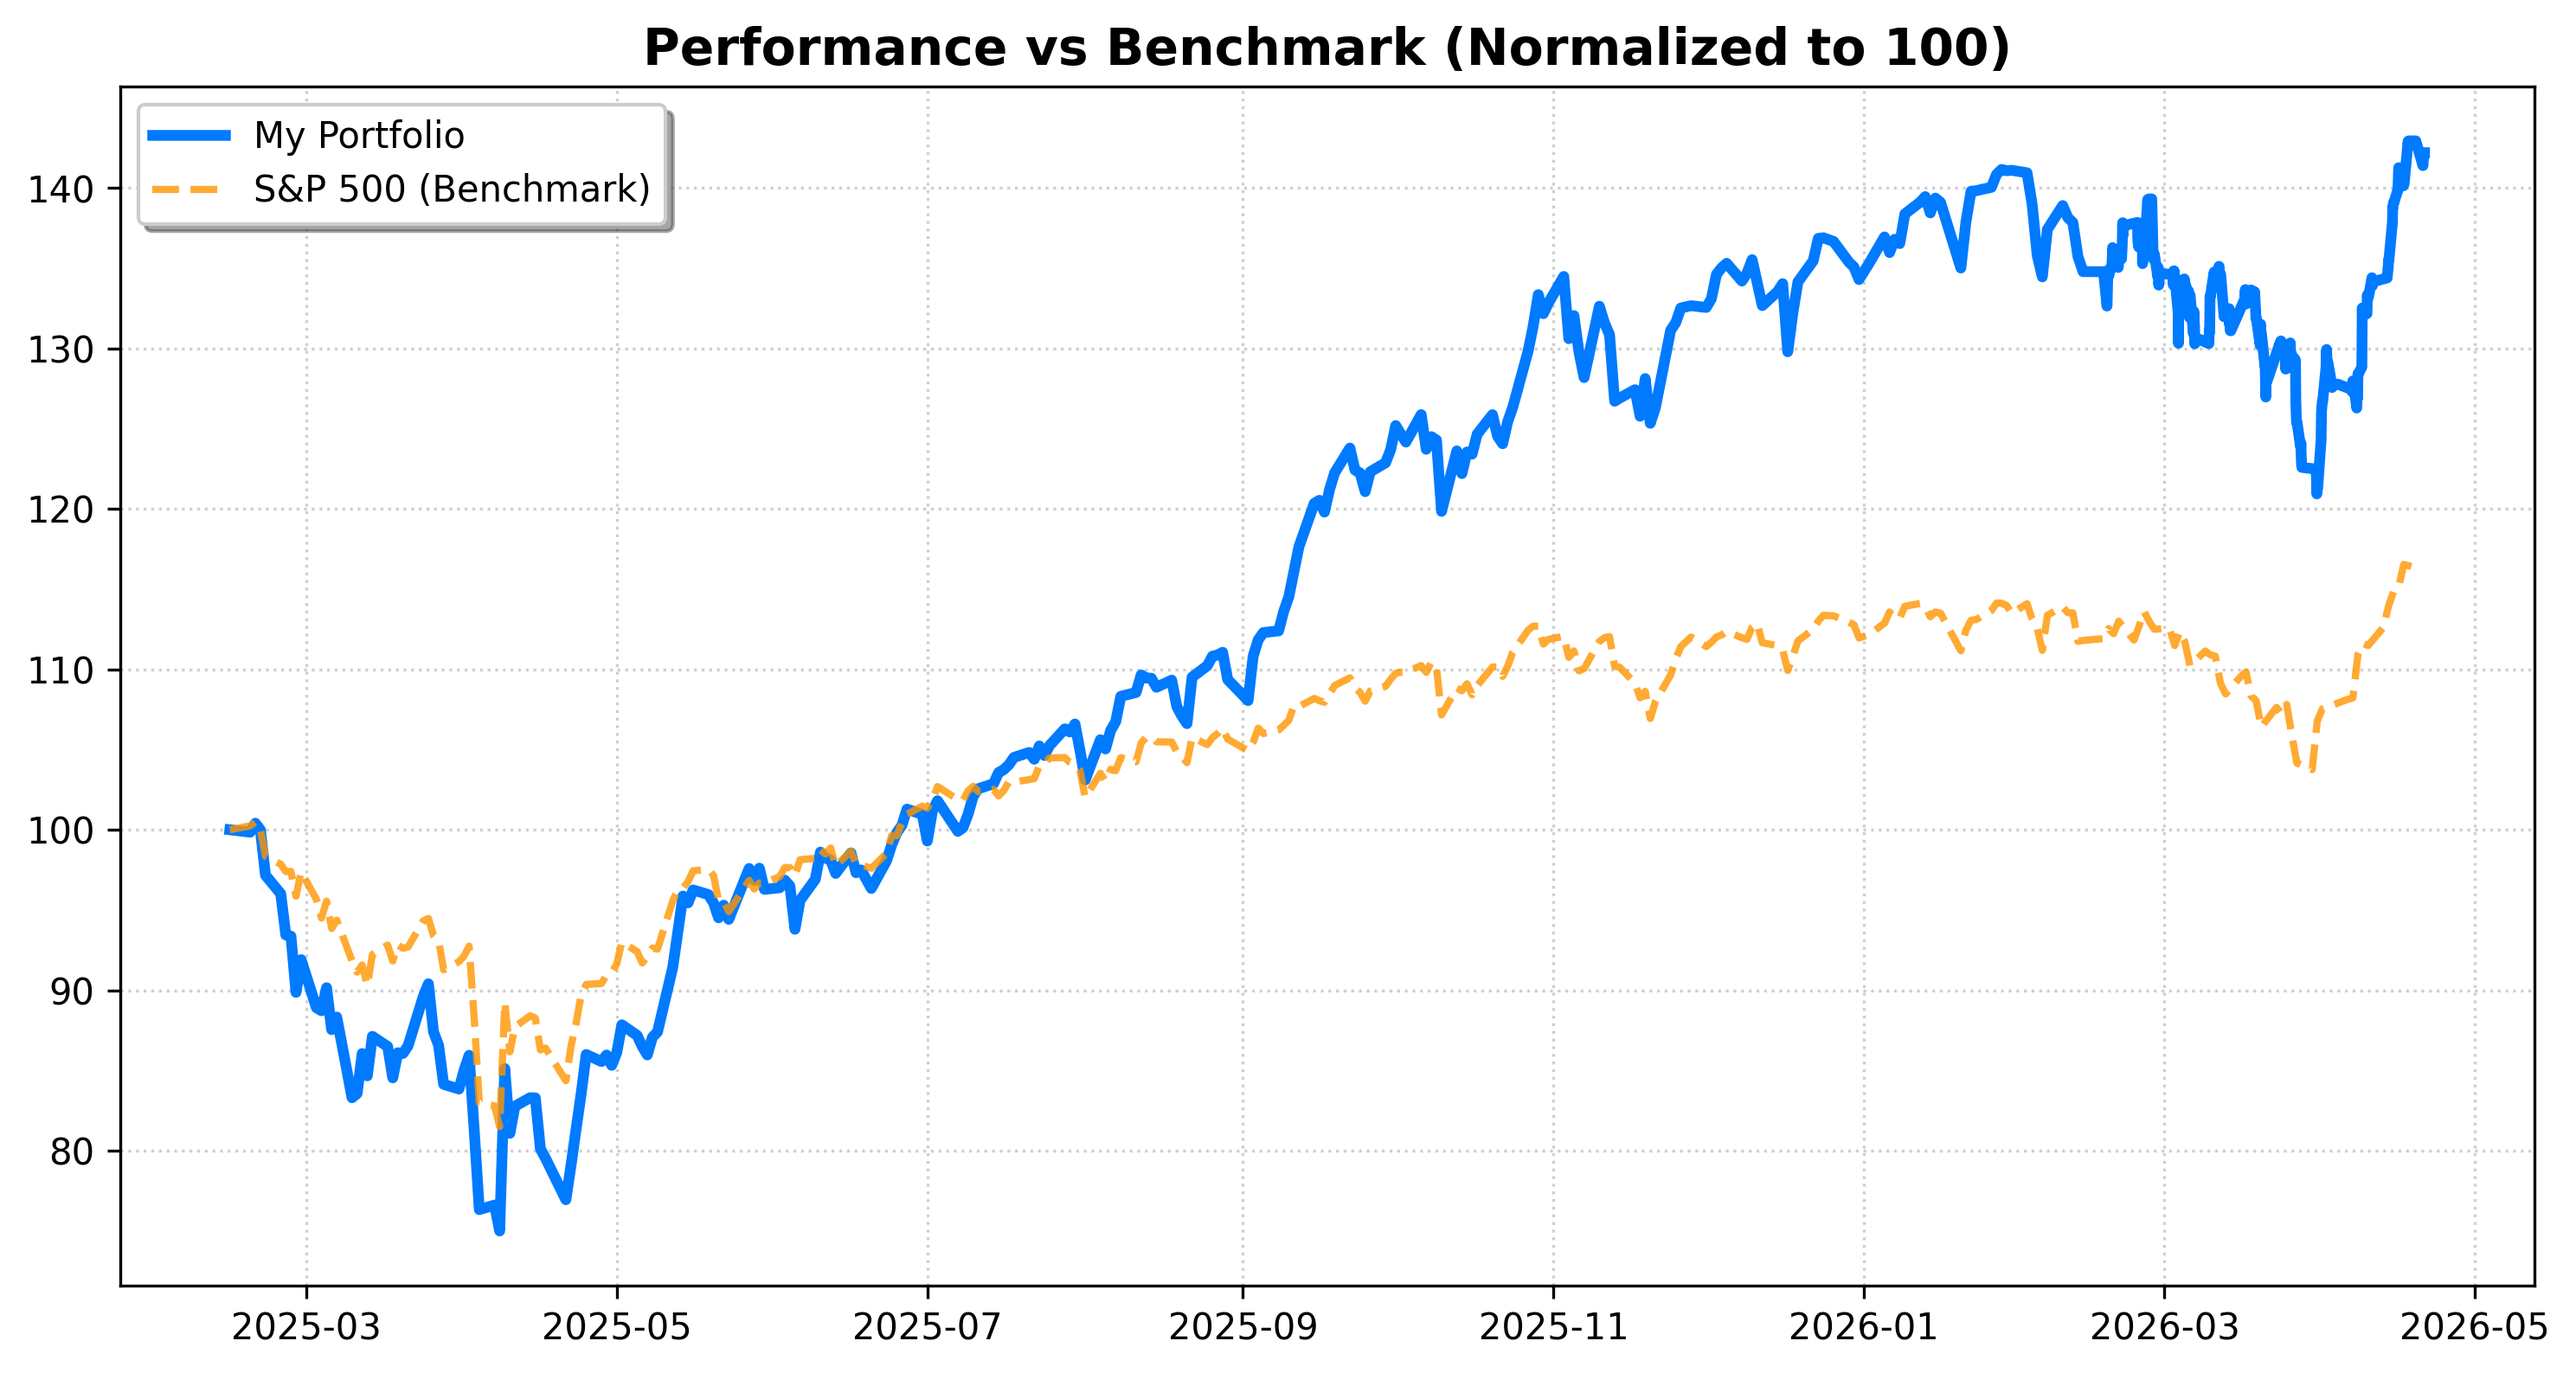
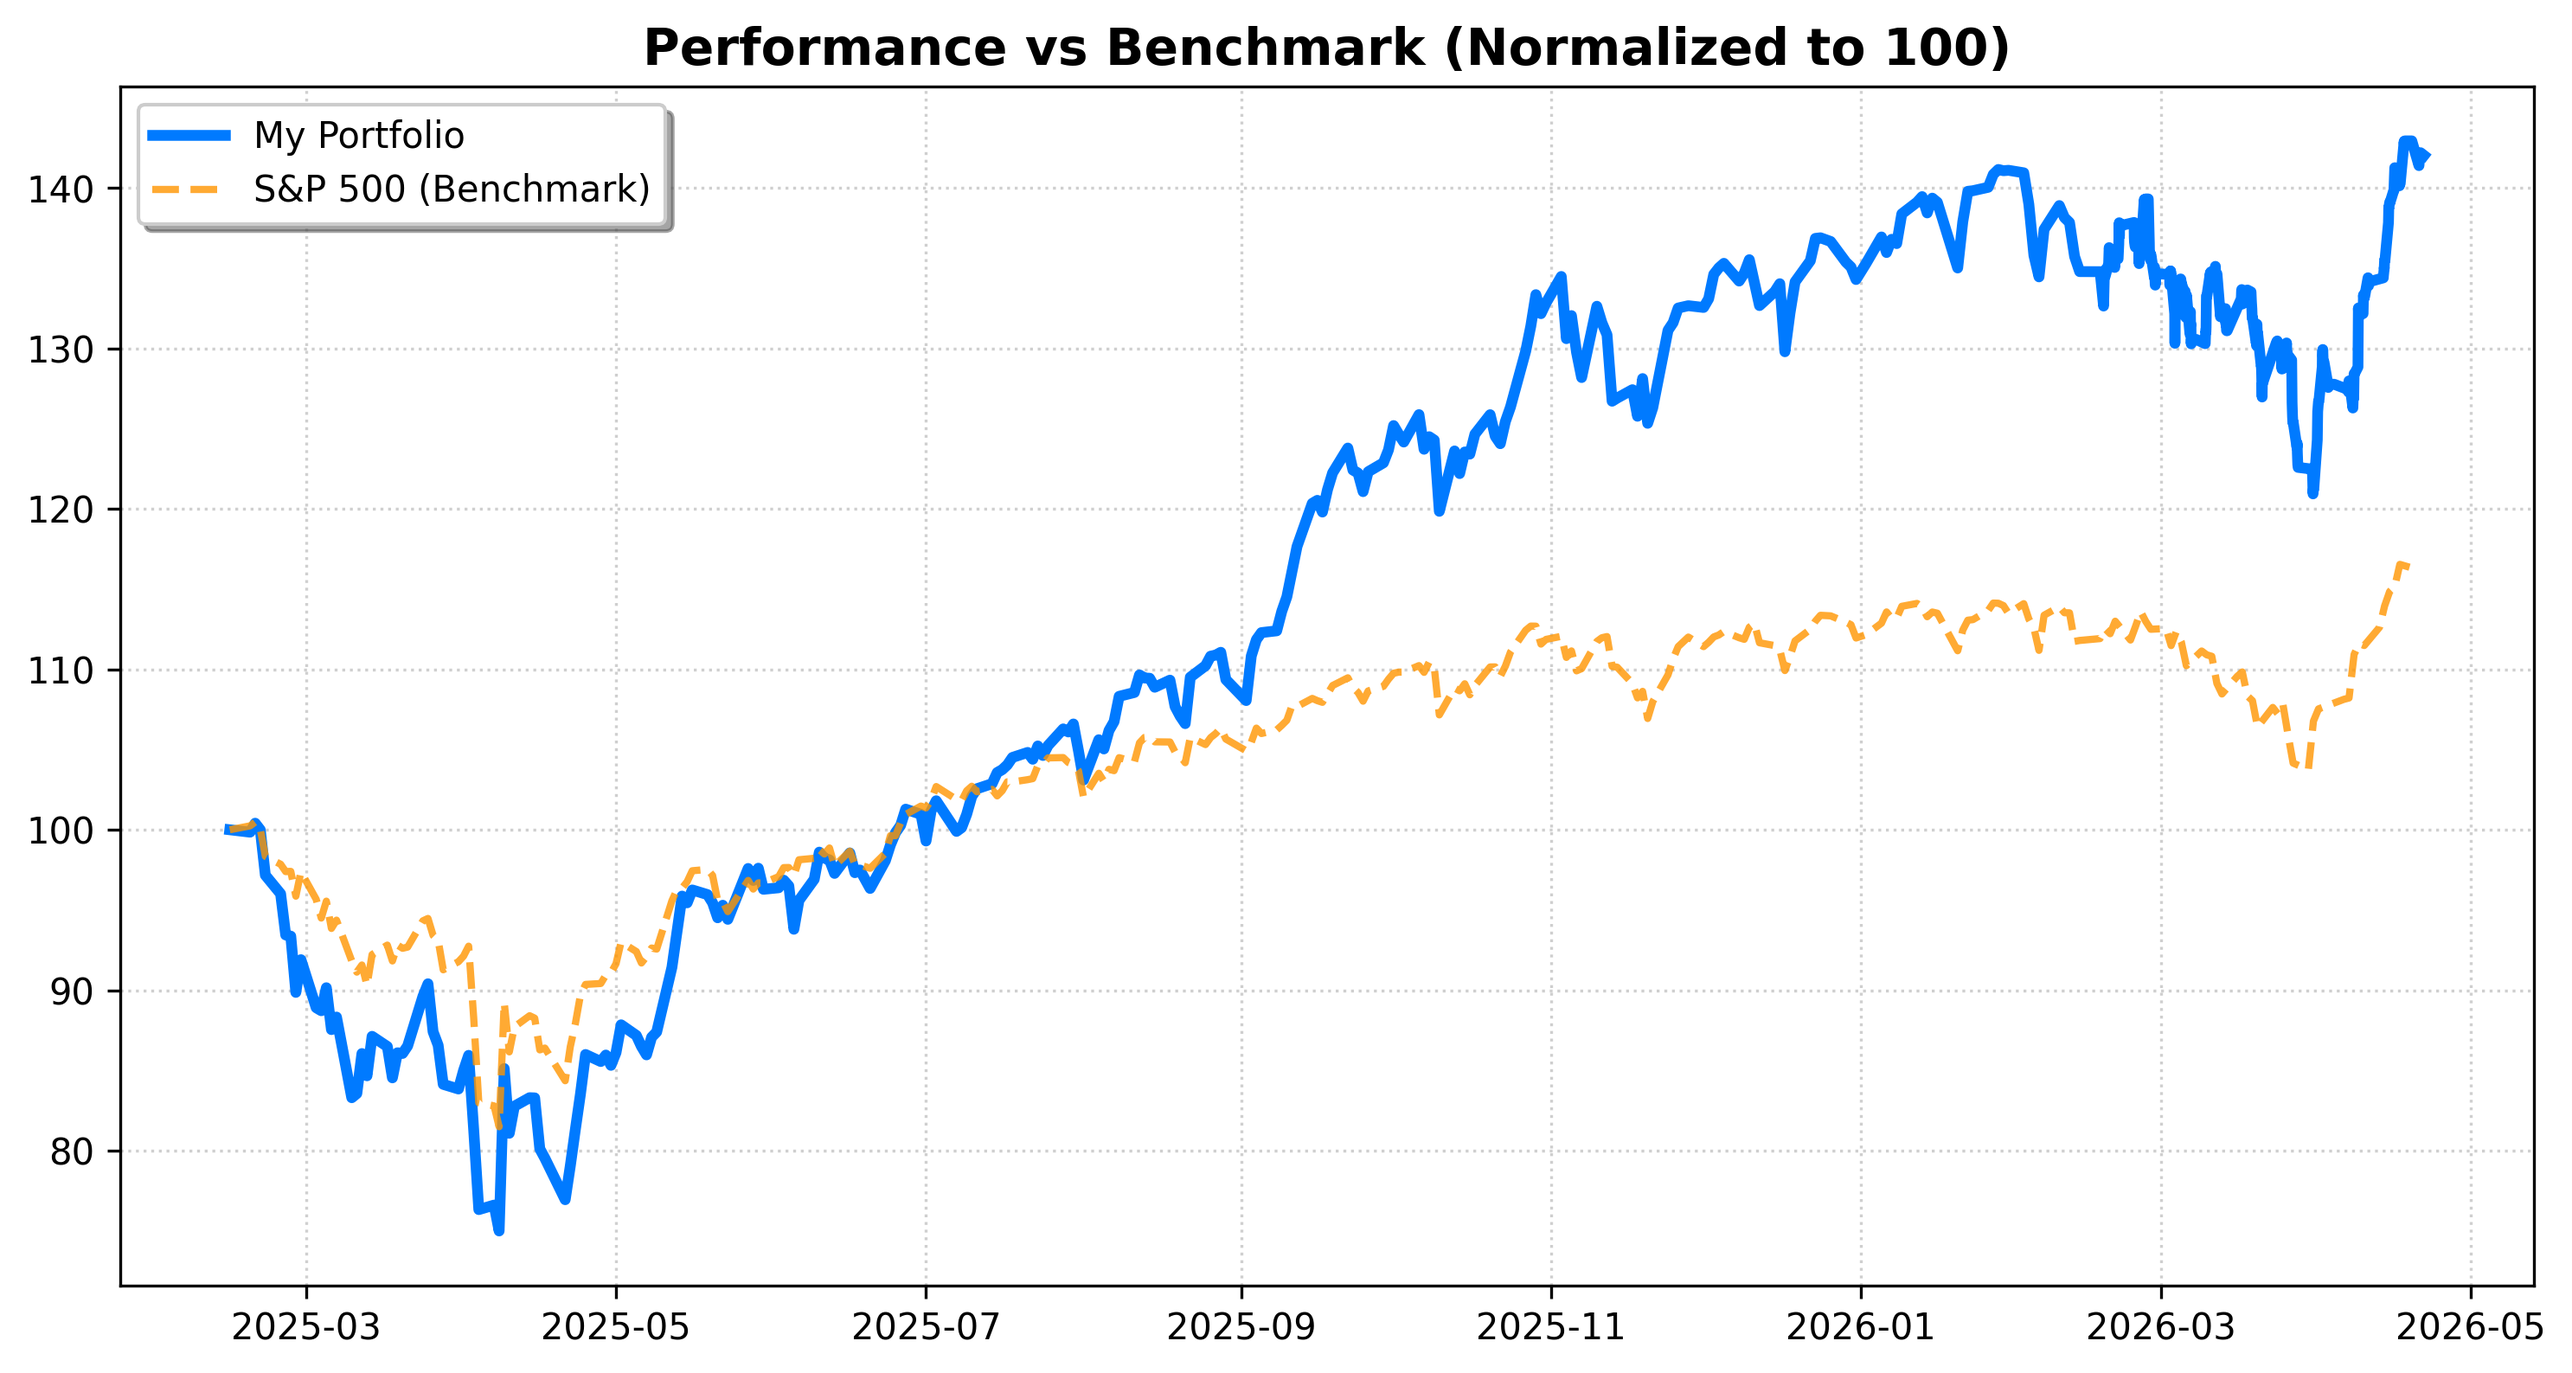
System Run: Analytics & Archive Update [skip ci]

diff --git a/README.md b/README.md
@@ -1,23 +1,23 @@
 # 📊 Portfolio Dashboard | מעקב תיק השקעות
-**Last Update:** 21/04/2026 01:52 | **USD/ILS:** ₪2.986
+**Last Update:** 21/04/2026 18:19 | **USD/ILS:** ₪3.002
 
 ## 💰 Portfolio Summary | סיכום התיק
 | Metric | Value | נתון |
 | :--- | :--- | :--- |
-| **Current Value** | `₪171,408` | **שווי נוכחי** |
-| **Total Invested** | `₪128,013` | **סך השקעה** |
-| **Total Profit/Loss** | `+33.90%` (₪43,394) | **רווח/הפסד כולל** |
-| **Daily Change** | `-0.52%` | **שינוי יומי** |
+| **Current Value** | `₪172,109` | **שווי נוכחי** |
+| **Total Invested** | `₪128,691` | **סך השקעה** |
+| **Total Profit/Loss** | `+33.74%` (₪43,418) | **רווח/הפסד כולל** |
+| **Daily Change** | `-0.64%` | **שינוי יומי** |
 
 ## 📜 Holdings | פירוט החזקות
 | Ticker | Shares | Avg. Cost | Current Price | P&L % | P&L ILS |
 | :--- | :--- | :--- | :--- | :--- | :--- |
-| GOOGL | 48 | $187.99 | $337.39 | 🟢 +79.47% | ₪21,413 |
-| ASML | 4 | $934.51 | $1,477.00 | 🟢 +58.05% | ₪6,480 |
-| XOM | 2 | $126.08 | $147.68 | 🟢 +17.13% | ₪129 |
-| NVDA | 57 | $148.62 | $202.11 | 🟢 +35.99% | ₪9,104 |
-| TSLA | 20 | $436.45 | $392.46 | 🔴 -10.08% | ₪-2,627 |
-| VOO | 24 | $527.38 | $651.51 | 🟢 +23.54% | ₪8,896 |
+| GOOGL | 48 | $187.99 | $337.46 | 🟢 +79.51% | ₪21,537 |
+| ASML | 4 | $934.51 | $1,477.00 | 🟢 +58.05% | ₪6,514 |
+| XOM | 2 | $126.08 | $147.68 | 🟢 +17.13% | ₪130 |
+| NVDA | 57 | $148.62 | $201.47 | 🟢 +35.56% | ₪9,043 |
+| TSLA | 20 | $436.45 | $391.87 | 🔴 -10.21% | ₪-2,676 |
+| VOO | 24 | $527.38 | $650.52 | 🟢 +23.35% | ₪8,871 |
 
 ## 📈 Charts | גרפים
 ![Performance](./data_hub/portfolio_performance.png)
